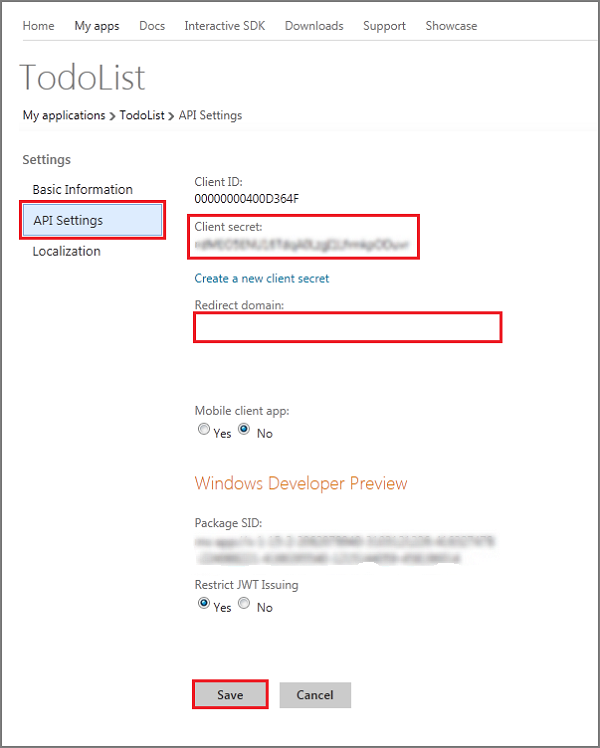
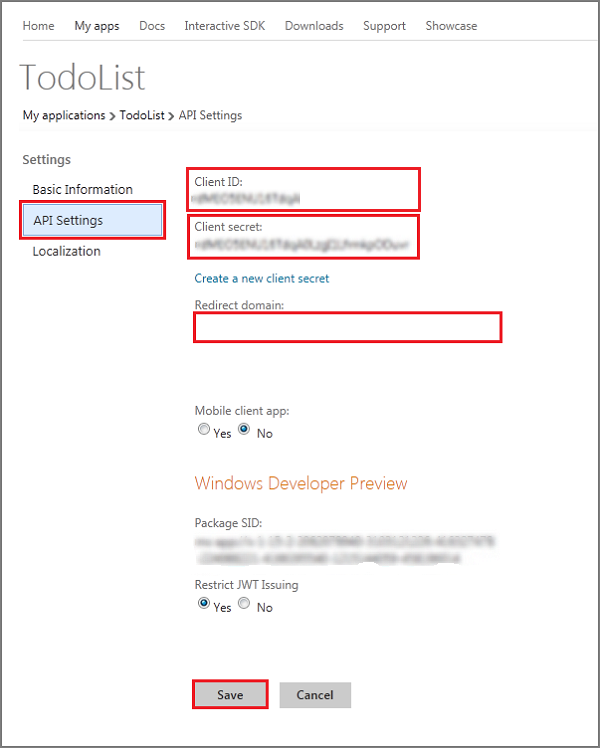
scheduler

Changed region(s): [[0.3, 0.2152, 0.72, 0.3075]]

diff --git a/HOL.md b/HOL.md
@@ -4,7 +4,7 @@
 ---
 <a name="Overview" />
 ## Overview ##
-In this HOL you will learn how you can leverage Visual Studio 2012 and Windows Azure Mobile Services to add structured storage, push notifications and integrated authentication to your Windows Store applications.
+In this HOL you will learn how you can leverage Visual Studio 2012 and Windows Azure Mobile Services to add structured storage, push notifications, integrated authentication and scheduled jobs to your Windows Store applications.
 
 <a name="Objectives" />
 ### Objectives ###
@@ -13,7 +13,7 @@ In this HOL you will learn how you can leverage Visual Studio 2012 and Windows A
 - Learn how to Insert, Update, Read and Delete rows from a Mobile Service
 - Add Push Notifications to your application
 - Lock down your Mobile Service such that only authenticated users can consume it
-
+- Add a Scheduled Job to poll the Twitter API and send tile updates
 <a name="technologies" />
 ### Prerequisites ###
 
@@ -30,6 +30,7 @@ This hands-on lab includes the following exercises:
 1. [Creating your first Mobile Service](#Exercise1)
 1. [Adding Push Notifications to your app](#Exercise2)
 1. [Adding Auth to Your App and Services](#Exercise3)
+1. [Adding a Scheduled Job to your Mobile Service](#Exercise4)
 
 <a name="Exercise1" />
 ## Exercise 1: Creating your first Mobile Service ##
@@ -404,7 +405,7 @@ To be able to authenticate users, you must register your Windows 8 app at the Li
 
 	![Image 24](Images/image-24.png?raw=true)
 
-1. Click **Edit settings**, then **API Settings** and make a note of the value of **Client secret**.
+1. Click **Edit settings**, then **API Settings** and make a note of the value of **Client ID** and **Client secret**.
 
 	![Image 25](Images/image-25.png?raw=true)
  
@@ -436,11 +437,11 @@ To be able to authenticate users, you must register your Windows 8 app at the Li
 1. Return to Visual Studio 2012 and press the **F5** key to run this quickstart-based app; verify that an exception with a status code of 401 (Unauthorized) is raised.
 This happens because the app is accessing Mobile Services as an unauthenticated user, but the _TodoItem_ table now requires authentication.
 
-Next, you will update the app to authenticate users with Live Connect before requesting resources from the mobile service.
+Next, you will update the app to authenticate users with your Microsoft Account before requesting resources from the mobile service.
 
 <a name="Add-authentication" />
 ### Task 3 - Add authentication ###
-	
+
 1. Download and install the [Live SDK for Windows](http://go.microsoft.com/fwlink/?LinkId=262253&clcid=0x409)
 
 1. In the project in Visual Studio, click **Add Reference**, then expand **Windows**, click **Extensions**, check **Live SDK** and click **OK**.
@@ -521,8 +522,96 @@ Next, you will update the app to authenticate users with Live Connect before req
 
 	When you are successfully logged-in, the app should run without errors, and you should be able to query Mobile Services and make updates to data.
 
----
+<a name="Exercise4" />
+## Exercise 4: Adding a Scheduled Job to your Mobile Service ##
 
+In this demo you learn how to execute script on a scheduled basis using **Windows Azure Mobile Services**.  In this scenario we will configure the scheduler to poll Twitter every 15 minutes and then send a Tile update with the latest tweets.
+
+
+### Task 1 - Configure your Windows store app for Wide Tiles ###
+1. In Visual Studio Open your **package.appxmanifest**
+
+1. Select the Application UI tab
+
+1. Provide a Wide Tile Logo of 310x150 pixels.  
+
+![Image 47](images/image-47.png?raw=true)
+
+> **Note:** Note if you do not have an image of these dimensions available you can use Microsoft Paint to quickly create one
+
+
+### Task 2 - Configure the Mobile Services scheduler ###
+
+1. Create the scheduler job that will send push notifications to registered clients every 15 minutes with the latest Twitter updates for a particular twitter handle.
+
+	![Image 39](images/image-39.png?raw=true)
+
+1. Specify a name for the job and make sure the schedule frequency is set to **every 15 minutes**. Click the check mark to create the job.
+
+	![Image 40](images/image-40.png?raw=true)
+
+1. Select the created job from the job list.
+
+	![Image 41](images/image-41.png?raw=true)
+
+1. Select the **Script** tab and paste the code snippet below that both polls Twitter and then composes a push notification to update your start screens tile using push.wns.*
+ 
+	````JavaScript
+	function CheckFeed() {
+		 getUpdatesAndNotify();
+	}
+
+	var request = require('request');
+	function getUpdatesAndNotify() {  
+		 request('http://search.twitter.com/search.json?q=@cloudnick&rpp=2', 
+			  function tweetsLoaded (error, response, body) {
+				  var results = JSON.parse(body).results;
+				  if(results){
+						results.forEach(function visitResult(tweet){
+						 sendNotifications(tweet);
+						});
+				  }            
+			  });
+	}
+
+	function sendNotifications(tweet){    
+			  
+		 var channelTable = tables.getTable('Channel');
+		  channelTable.read({
+				success: function(channels) {
+					 channels.forEach(function(channel) {   
+																							
+						  push.wns.sendTileWideSmallImageAndText04(channel.uri, {
+								image1src: tweet.profile_image_url,                            
+								text1: '@' + tweet.from_user,
+								text2: tweet.text
+						  });                  
+																																	 
+					 });
+				}
+			 });
+	}
+	````
+1. Once you paste the script into the editor, click the **Save** button to store the changes to the script
+
+	![Image 42](images/image-42.png?raw=true)
+
+ 
+1. In Visual Studio, press **F5** to build and run the application.  This will ensure your channel URI is up to date and will ensure the Default Wide tile is now on your Start screen
+
+1. Go back to the Windows Azure Management Portal, select the **Scheduler** tab of your mobile service, and then click **Enable** in the command bar to allow the job to run.
+
+	![Image 44](images/image-44.png?raw=true)
+
+1. To test your script immediately rather than wait 15 minutes for it to be scheduled, click **Run Once** in the command bar.
+
+	![Image 45](images/image-45.png?raw=true)
+
+1. Return to the start screen and see the latest update on your application tile
+
+	![Image 46](images/image-46.png?raw=true)
+
+---
 <a name="Summary"></a>
 ## Summary ##
 By completing this hands-on lab you have learnt how to:
@@ -532,5 +621,6 @@ By completing this hands-on lab you have learnt how to:
 - Learn how to Insert, Update, Read and Delete rows from a Mobile Service
 - Add Push Notifications to your application
 - Lock down your Mobile Service such that only authenticated users can consume it
+- Use the Scheduler to execute scripts at a scheduled interval
 
 ---
